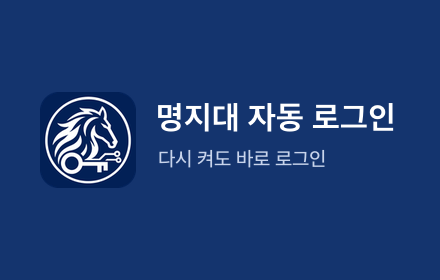
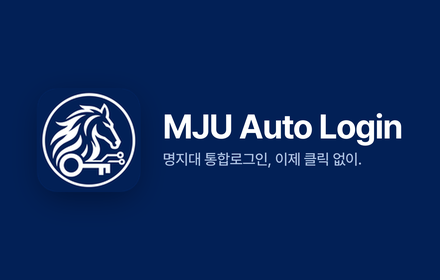
README 목차 정리, 작은 프로모션 타일 새로 만듦

Changed region(s): [[0.0295, 0.2286, 0.9159, 0.8286]]

diff --git a/README.md b/README.md
@@ -8,23 +8,41 @@
 ![License: MIT](https://img.shields.io/badge/License-MIT-yellow.svg)
 ![Privacy](https://img.shields.io/badge/data-stays_local-success.svg)
 
+
+
 ## ✅ 크롬과 엣지 모두 지원합니다
 
-MJU Auto Login은 명지대학교 아스트라(LMS), MSI 등 통합로그인(SSO)을 사용하는 사이트에 로그아웃 상태로 접속했을 때,   
+MJU Auto Login은 명지대학교 아스트라(LMS), MSI 등 통합로그인(SSO)을 사용하는 사이트에 로그아웃 상태로 접속했을 때,  
 브라우저에 저장된 계정으로 로그인 과정을 자동으로 진행하는 확장 프로그램입니다.  
 브라우저를 다시 열 때마다 반복하던 여러 번의 클릭이 필요 없어집니다.
+
+## 설치 [크롬 웹 스토어](https://chromewebstore.google.com/detail/mhhpalifnkkbgoonlnnpcojllkiblbca)
+
+## 에서 설치합니다. 엣지에서도 같은 페이지에서 설치할 수 있으며, 처음 한 번 "다른 스토어의 확장 허용"을 눌러야 합니다.
+
+엣지 지원은 0.3.0 버전부터 들어갑니다. 스토어에 0.3.0이 반영되기 전에 엣지에서 쓰려면 직접 설치해야 합니다.
+
+1. 이 저장소를 내려받아 압축을 풉니다. (`Code` → `Download ZIP`)
+2. 주소창에 `chrome://extensions`(엣지는 `edge://extensions`)를 입력하고 **개발자 모드**를 켭니다.
+3. **압축해제된 확장 프로그램 로드**(엣지는 **압축 풀린 확장 로드**)를 누르고, 압축을 푼 폴더를 선택합니다.
 
 ## ⚡ 북마크 클릭부터 아스트라 메인 화면까지 **1.03초**
 
 ![북마크에서 아스트라를 누르면 통합로그인과 비밀번호 변경 안내를 자동으로 지나 메인 화면에 도착한다](docs/images/login-demo.gif)
 
+
+
+&nbsp;
+
+&nbsp;
+
 ## 목차
 
-- 📘 [**사용 안내**](#사용-안내) — 설치하고 쓰려는 분
+- 📥 [**설치**](#설치)
+- 📘 [**사용 안내**](#사용-안내) — 준비와 사용법
   - [지원 브라우저](#지원-브라우저)
   - [크롬 준비](#크롬-준비)
   - [엣지 준비](#엣지-준비)
-  - [설치](#설치)
   - [켜고 끄기](#켜고-끄기)
   - [개인정보](#개인정보)
 - 🛠 [**개발 기록**](#개발-기록) — 어떻게 만들었는지 궁금한 분
@@ -92,8 +110,6 @@ MJU Auto Login은 명지대학교 아스트라(LMS), MSI 등 통합로그인(SSO
 
 
 
-
-
 &nbsp;
 
 ---
@@ -137,17 +153,7 @@ MJU Auto Login은 명지대학교 아스트라(LMS), MSI 등 통합로그인(SSO
 - [ ] 엣지에 통합로그인 계정이 저장되어 있다
 - [ ] 자동 채우기 설정에서 **"웹 사이트 암호를 입력하고 자동으로 로그인…"**이 선택되어 있다
 
-## 설치
 
-[크롬 웹 스토어](https://chromewebstore.google.com/detail/mhhpalifnkkbgoonlnnpcojllkiblbca)에서 **Chrome에 추가**를 누릅니다. 엣지에서도 같은 페이지에서 설치할 수 있으며, 처음 한 번 "다른 스토어의 확장 허용"을 눌러야 합니다.
-
-엣지 지원은 0.3.0 버전부터 들어갑니다. 스토어에 0.3.0이 반영되기 전에 엣지에서 쓰려면 직접 설치해야 합니다.
-
-1. 이 저장소를 내려받아 압축을 풉니다. (`Code` → `Download ZIP`)
-2. 주소창에 `chrome://extensions`(엣지는 `edge://extensions`)를 입력하고 **개발자 모드**를 켭니다.
-3. **압축해제된 확장 프로그램 로드**(엣지는 **압축 풀린 확장 로드**)를 누르고, 압축을 푼 폴더를 선택합니다.
-
-설치가 끝나면 평소처럼 아스트라(LMS)나 MSI에 접속하시면 됩니다.
 
 ## 켜고 끄기
 
